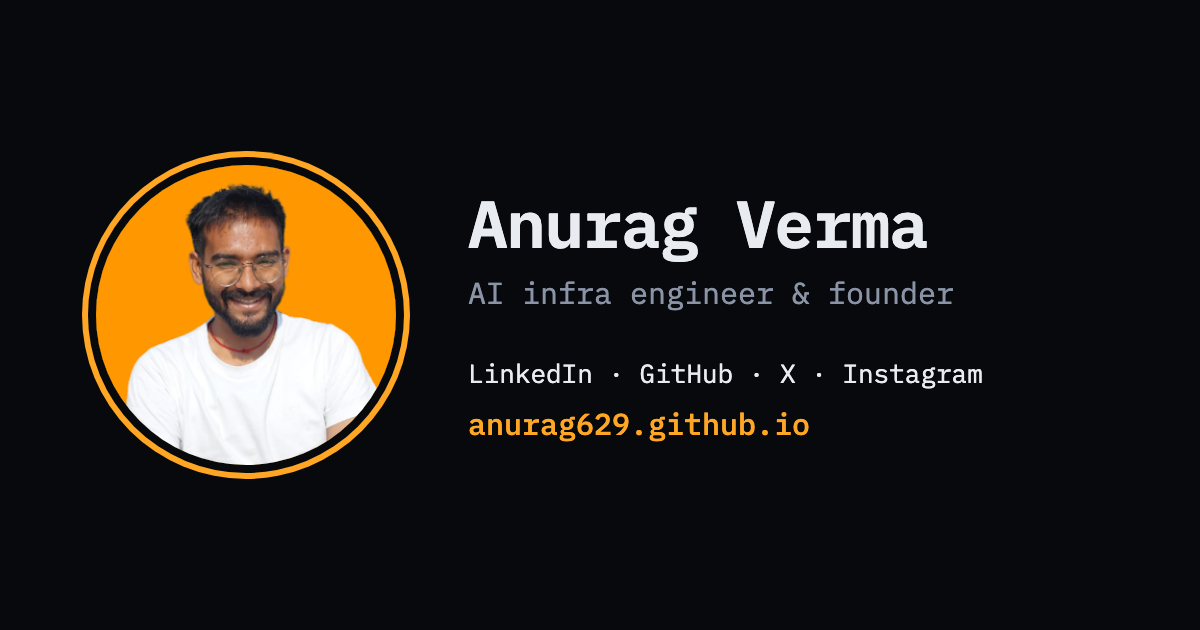
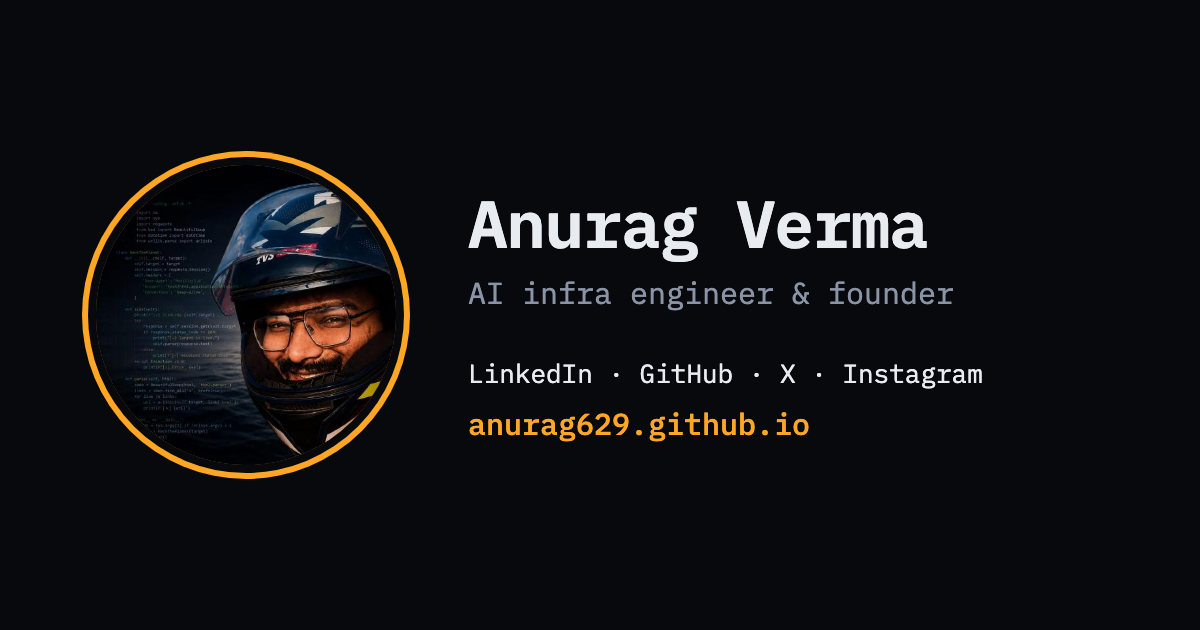
Use the GitHub profile picture
Swaps profile.png for the current GitHub avatar (profile.jpg, 460px) on
the page, in the JSON-LD, and in the share image.

Changed region(s): [[0.0617, 0.2413, 0.3392, 0.754]]

diff --git a/site/index.html b/site/index.html
@@ -37,7 +37,7 @@
     "@type": "Person",
     "name": "Anurag Verma",
     "url": "https://anurag629.github.io/",
-    "image": "https://anurag629.github.io/profile.png",
+    "image": "https://anurag629.github.io/profile.jpg",
     "jobTitle": "AI Infrastructure Engineer",
     "email": "mailto:akvermaav629@gmail.com",
     "sameAs": [
@@ -166,7 +166,7 @@
 <body>
   <main>
     <header>
-      <img class="avatar" src="/profile.png" width="112" height="112" alt="Anurag Verma">
+      <img class="avatar" src="/profile.jpg" width="112" height="112" alt="Anurag Verma">
       <h1>Anurag Verma</h1>
       <p class="role">AI infra engineer &amp; founder</p>
     </header>
